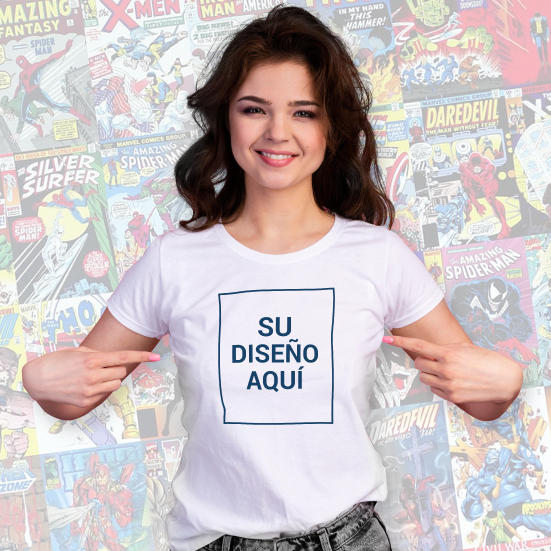
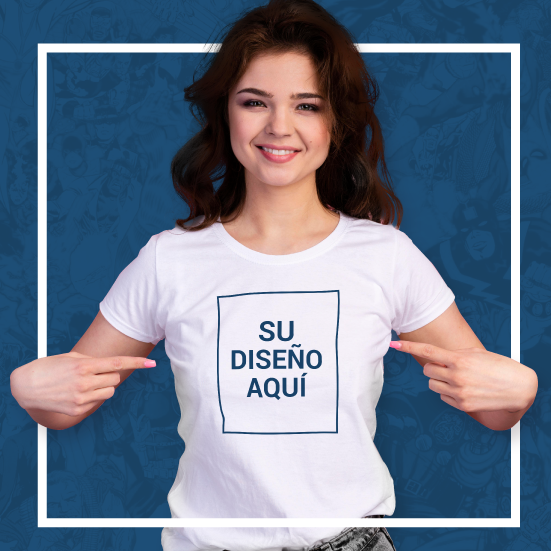
Se crea el Personalizá
se agregó la pagina de personalizar con form para que la persona pueda agregar su nombre , correo y telefono ademas de un apartado para agregar información del procducto e imane de este.

se hizo una imagen nueva especial para personalizá

se cambió la imágen de perzonalizar del menu central para que el fondo coincidiera con la línea gráfica azull

se agrego texto tanto para la imagen de personalizá del home como para la interna para generar una mejor expericia de página real.

diff --git a/src/main/resources/templates/personaliza/inicio.html b/src/main/resources/templates/personaliza/inicio.html
@@ -20,7 +20,77 @@ Click nbfs://nbhost/SystemFileSystem/Templates/Other/html.html to edit this temp
     </head>
     <body>
         <header th:replace="~{layout/header :: header}"></header>
-        <div>AQUI VA PERSONALIZA!!!</div>
+
+        <div class="container mt-5">
+            <div class="row">
+                <!-- Columna de imagen -->
+                <div class="col-md-4 d-flex justify-content-center">
+                    <img src="/ImgWeb/Personaliza2.png" class="img-fluid">
+                </div>
+                <!-- Columna de formulario -->
+                <div class="col-md-8">
+                    <form>
+                        <div class="personaliza-txtbtn-box">
+                            <h2 class="personaliza-title">Personalizá tu camisa</h2>
+                            <p class="personaliza-pgraph">¡Gracias por elegir nuestra tienda para 
+                                hacer su camiseta personalizada! Estamos emocionados de ayudarlo 
+                                a crear una camiseta única y especial.</p>
+                            <p>Para comenzar, necesitamos algunos detalles de su parte. 
+                                Por favor, proporcione su nombre, número de teléfono y correo 
+                                electrónico para que podamos ponernos en contacto con usted y 
+                                confirmar los detalles de su pedido.</p>
+                            <p>Además, si desea agregar una imagen personalizada en alta calidad 
+                                a su camiseta, ¡nos encantaría verla! Para hacerlo, simplemente 
+                                adjunte la imagen en el campo de carga a continuación. 
+                                Asegúrese de que la imagen esté en formato JPEG o PNG y tenga 
+                                una resolución de al menos 300 ppp para garantizar la mejor calidad posible.</p>
+
+                        </div>
+                        <div class="form-group">
+                            <label for="nombre">Nombre</label>
+                            <input type="text" class="form-control" id="nombre" name="nombre">
+                        </div>
+                        <div class="form-group">
+                            <label for="telefono">Teléfono</label>
+                            <input type="text" class="form-control" id="telefono" name="telefono">
+                        </div>
+                        <div class="form-group">
+                            <label for="correo">Correo electrónico</label>
+                            <input type="email" class="form-control" id="correo" name="correo">
+                        </div>
+
+                        <!-- Espacio para agregar texto -->
+                        <div class="mt-3">
+                            <label for="texto">Agregar información</label>
+                            <textarea class="form-control" id="texto" name="texto"></textarea>
+                        </div>
+                        <div class="form-group">
+                            <label for="imagen">Adjuntar imagen</label>
+                            <input type="file" class="form-control-file" id="imagen" name="imagen">
+                        </div>
+                        <button type="submit" class="btn btn-primary">Enviar</button>
+                    </form>
+                </div>
+            </div>
+        </div>
+        
+        <!-- texto de abajo -->
+        <div class="container mt-5">
+            <div class="row">
+                <div class="col">
+                    <div class="p-3">
+                        <!-- Párrafo con márgenes a los lados -->
+                        <p class="mx-3">Una vez que hayamos recibido sus detalles y su imagen personalizada, 
+                            nos pondremos manos a la obra para crear su camiseta única y especial. 
+                            Le enviaremos una prueba de diseño para que pueda ver cómo se verá 
+                            su camiseta antes de que la imprimamos, y si todo está bien, 
+                            procederemos a imprimir y enviar su pedido.</p>
+                        <p class="mx-3 ">Si tiene alguna pregunta o necesita ayuda en 
+                            cualquier momento, no dude en ponerse en contacto con nosotros.</p>
+                    </div>
+                </div>
+            </div>
+        </div>
         <footer th:replace="~{layout/footer :: footer}"></footer>
     </body>
 </html>

diff --git a/src/main/resources/templates/index.html b/src/main/resources/templates/index.html
@@ -161,10 +161,12 @@
             </div>
             <div class="personaliza-txtbtn-box">
                 <h2 class="personaliza-title">Personalizá tu camisa</h2>
-                <p class="personaliza-pgraph">Lorem ipsum dolor sit amet, consectetur adipiscing elit. In nec congue mi. 
-                    Etiam a enim gravida purus tempus rhoncus. In tempus tincidunt sodales. Proin quis iaculis nunc. Vestibulum 
-                    non nulla rutrum, placerat ante et, tincidunt augue. Nam euismod libero quis justo blandit fermentum. Nulla 
-                    vulputate a sapien ornare elementum.</p>
+                <p class="personaliza-pgraph">¿Quieres tener una camisa que sea 
+                    única y refleje tu estilo personal? ¡No busques más! 
+                    Con nuestra opción de personalización, puedes crear una 
+                    camisa que sea verdaderamente tuya. Ya sea que quieras 
+                    agregar tu nombre, un logo o una imagen personalizada, 
+                    podemos hacerlo realidad.</p>
                 <button class="btn">Ver más</button>
             </div>
         </div>

diff --git a/src/main/resources/templates/tematicas/inicio.html b/src/main/resources/templates/tematicas/inicio.html
@@ -20,7 +20,23 @@ Click nbfs://nbhost/SystemFileSystem/Templates/Other/html.html to edit this temp
     </head>
     <body>
         <header th:replace="~{layout/header :: header}"></header>
-        <div>AQUI VAN LOS BOTONES DE LAS TEMATICAS!!!</div>
+          <div class="row">
+    <div class="col">
+      <img src="https://via.placeholder.com/600x650" class="img-fluid mx-auto" alt="600x650">
+    </div>
+    <div class="col">
+      <img src="https://via.placeholder.com/600x315" class="img-fluid mx-auto" alt="600x315">
+    </div>
+  </div>
+  <div class="row">
+    <div class="col">
+      <img src="https://via.placeholder.com/286x115" class="img-fluid mx-auto" alt="286x115">
+    </div>
+    <div class="col">
+      <img src="https://via.placeholder.com/286x115" class="img-fluid mx-auto" alt="286x115">
+    </div>
+  </div>
+</div>
         <footer th:replace="~{layout/footer :: footer}"></footer>
     </body>
 </html>

diff --git a/src/main/resources/templates/layout/header.html b/src/main/resources/templates/layout/header.html
@@ -18,7 +18,7 @@
         </header>
 
         <!-- Navegador -->
-        <header class="p-3 text-bg-dark sticky-top" >
+        <header class="p-3 text-bg-dark sticky-top " >
             <div class="container">
                 <div class="d-flex flex-wrap align-items-center justify-content-center justify-content-lg-start">
                     <a href="/"><img src="/ImgWeb/LogoTienda.png" alt="" width="80%"/></a>
